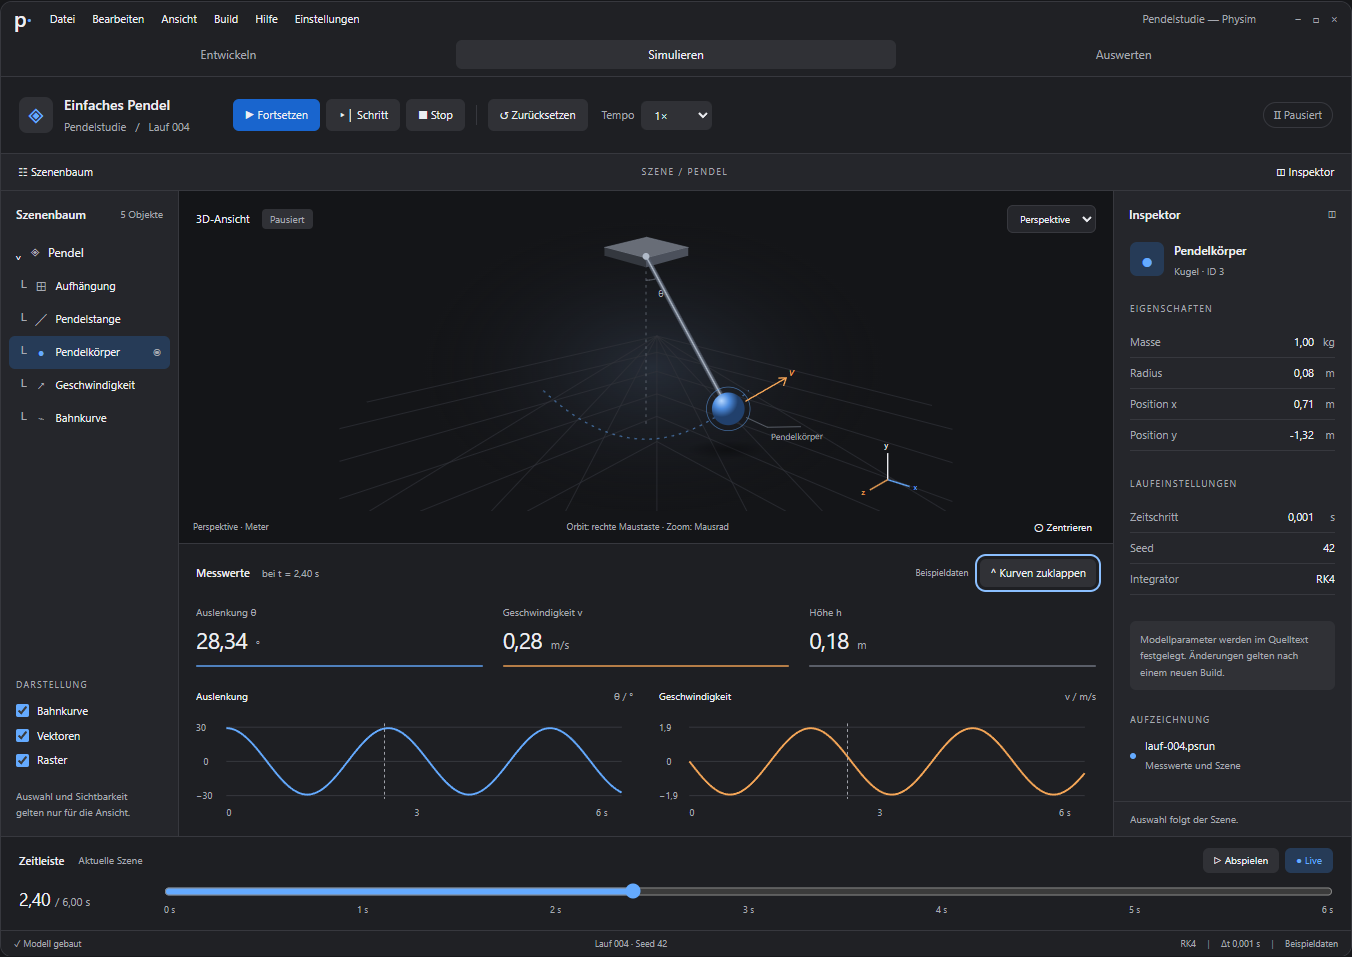
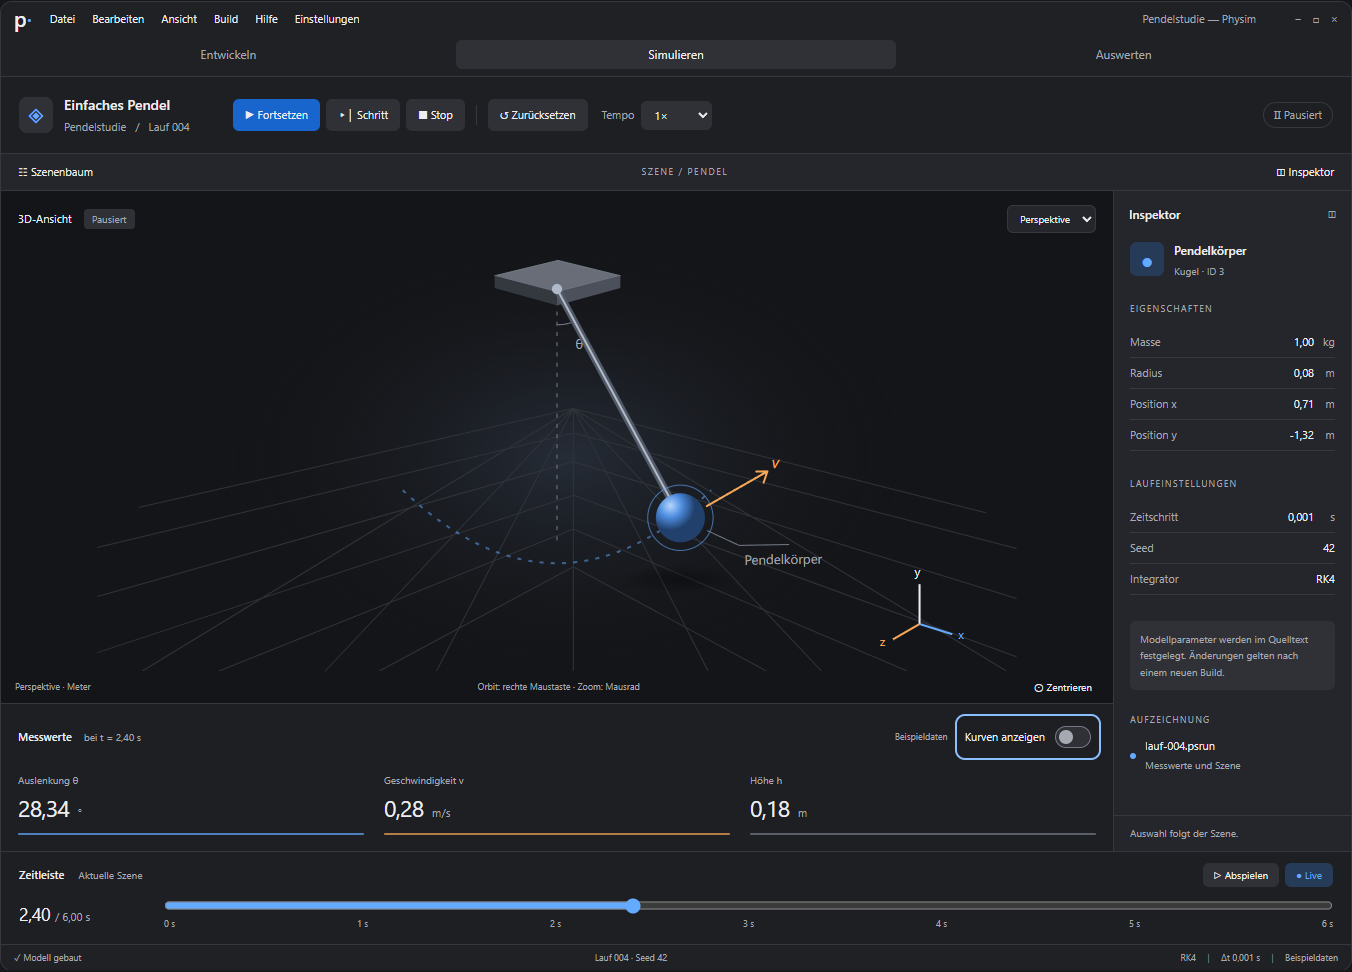
Select Messlabor design with quiet curve switch and initial pane states

diff --git a/docs/visuals/simulation-designs/index.html b/docs/visuals/simulation-designs/index.html
@@ -15,7 +15,7 @@
   </header>
   <nav class="variants" aria-label="Designvariante">
     <button data-design="studio" aria-pressed="true"><span class="variant-number">01</span><span><strong>Studio</strong><small>Szene, Struktur und Eigenschaften im Gleichgewicht</small></span><span class="variant-tag">Ausgewogen</span></button>
-    <button data-design="labor" aria-pressed="false"><span class="variant-number">02</span><span><strong>Messlabor</strong><small>Beobachten und Messwerte direkt vergleichen</small></span><span class="variant-tag">Daten im Blick</span></button>
+    <button data-design="labor" aria-pressed="false"><span class="variant-number">02</span><span><strong>Messlabor</strong><small>Ausgewählt · Szene und optionale Messkurven</small></span><span class="variant-tag">Daten im Blick</span></button>
     <button data-design="focus" aria-pressed="false"><span class="variant-number">03</span><span><strong>Fokus</strong><small>Die Szene als große, ungestörte Arbeitsfläche</small></span><span class="variant-tag">Szene zuerst</span></button>
   </nav>
   <div class="preview-meta"><span><b id="design-caption">01 / Studio</b><span id="design-description">Ein vertrauter Arbeitsraum für Modell und Bewegung.</span></span><label>Zustand <select id="state-select"><option value="paused">Pausiert</option><option value="running">Läuft</option><option value="ready">Bereit</option><option value="empty">Kein Projekt</option><option value="error">Fehler</option></select></label></div>
@@ -43,7 +43,7 @@
           <div class="scene-bottom"><span id="view-label">Perspektive · Meter</span><span class="scene-hint">Orbit: rechte Maustaste · Zoom: Mausrad</span><button id="camera-reset" aria-label="Kamera auf Standardansicht zurücksetzen">⊙ Zentrieren</button></div>
           <div class="state-overlay" id="state-overlay" hidden><span class="empty-symbol">◈</span><h2 id="overlay-title">Dein nächstes Experiment.</h2><p id="overlay-message">Öffne einen Projektordner, um dein Modell zu simulieren.</p><button id="overlay-action" class="primary">Beispiel anzeigen</button></div>
         </div>
-        <div class="measurements" id="measurements"><div class="measure-heading"><strong>Messwerte</strong><span id="measurement-time">bei t = 2,40 s</span><span class="sample-badge">Beispieldaten</span><button id="curves-toggle" type="button" aria-expanded="false" aria-controls="curves">⌄ Kurven aufklappen</button></div><div class="metric-grid"><div><span>Auslenkung θ</span><strong id="angle-value">27,37 <small>°</small></strong><div class="metric-line blue"></div></div><div><span>Geschwindigkeit v</span><strong id="velocity-value">0,00 <small>m/s</small></strong><div class="metric-line amber"></div></div><div><span>Höhe h</span><strong id="height-value">0,17 <small>m</small></strong><div class="metric-line neutral"></div></div></div><div class="charts" id="curves" hidden><div class="chart"><div class="chart-label"><span>Auslenkung</span><span>θ / °</span></div><svg viewBox="0 0 460 114" role="img" aria-label="Beispielverlauf der Auslenkung über 6 Sekunden"><g class="chart-grid"><path d="M32 16H448M32 52H448M32 88H448"/></g><g class="chart-axis"><text x="0" y="20">30</text><text x="8" y="56">0</text><text x="0" y="92">−30</text><text x="32" y="110">0</text><text x="230" y="110">3</text><text x="421" y="110">6 s</text></g><path id="angle-curve" class="curve"/><line class="chart-cursor" x1="198" x2="198" y1="12" y2="91"/></svg></div><div class="chart"><div class="chart-label"><span>Geschwindigkeit</span><span>v / m/s</span></div><svg viewBox="0 0 460 114" role="img" aria-label="Beispielverlauf der Geschwindigkeit über 6 Sekunden"><g class="chart-grid"><path d="M32 16H448M32 52H448M32 88H448"/></g><g class="chart-axis"><text x="0" y="20">1,9</text><text x="8" y="56">0</text><text x="0" y="92">−1,9</text><text x="32" y="110">0</text><text x="230" y="110">3</text><text x="421" y="110">6 s</text></g><path id="velocity-curve" class="curve amber-curve"/><line class="chart-cursor" x1="198" x2="198" y1="12" y2="91"/></svg></div></div></div>
+        <div class="measurements" id="measurements"><div class="measure-heading"><strong>Messwerte</strong><span id="measurement-time">bei t = 2,40 s</span><span class="sample-badge">Beispieldaten</span><button id="curves-toggle" type="button" role="switch" aria-checked="false" aria-expanded="false" aria-controls="curves"><span>Kurven anzeigen</span><span class="switch-track" aria-hidden="true"><span class="switch-thumb"></span></span></button></div><div class="metric-grid"><div><span>Auslenkung θ</span><strong id="angle-value">27,37 <small>°</small></strong><div class="metric-line blue"></div></div><div><span>Geschwindigkeit v</span><strong id="velocity-value">0,00 <small>m/s</small></strong><div class="metric-line amber"></div></div><div><span>Höhe h</span><strong id="height-value">0,17 <small>m</small></strong><div class="metric-line neutral"></div></div></div><div class="charts" id="curves" hidden><div class="chart"><div class="chart-label"><span>Auslenkung</span><span>θ / °</span></div><svg viewBox="0 0 460 114" role="img" aria-label="Beispielverlauf der Auslenkung über 6 Sekunden"><g class="chart-grid"><path d="M32 16H448M32 52H448M32 88H448"/></g><g class="chart-axis"><text x="0" y="20">30</text><text x="8" y="56">0</text><text x="0" y="92">−30</text><text x="32" y="110">0</text><text x="230" y="110">3</text><text x="421" y="110">6 s</text></g><path id="angle-curve" class="curve"/><line class="chart-cursor" x1="198" x2="198" y1="12" y2="91"/></svg></div><div class="chart"><div class="chart-label"><span>Geschwindigkeit</span><span>v / m/s</span></div><svg viewBox="0 0 460 114" role="img" aria-label="Beispielverlauf der Geschwindigkeit über 6 Sekunden"><g class="chart-grid"><path d="M32 16H448M32 52H448M32 88H448"/></g><g class="chart-axis"><text x="0" y="20">1,9</text><text x="8" y="56">0</text><text x="0" y="92">−1,9</text><text x="32" y="110">0</text><text x="230" y="110">3</text><text x="421" y="110">6 s</text></g><path id="velocity-curve" class="curve amber-curve"/><line class="chart-cursor" x1="198" x2="198" y1="12" y2="91"/></svg></div></div></div>
       </div>
       <aside id="inspector" class="inspector"><div class="pane-heading">Inspektor <span>◫</span></div><div class="inspector-body"><div class="object-heading"><div class="object-avatar">●</div><div><strong class="selected-name">Pendelkörper</strong><small id="selected-type">Kugel · ID 3</small></div></div><div class="section-label">EIGENSCHAFTEN</div><dl class="properties" id="object-properties"><div><dt>Masse</dt><dd>1,00 <span>kg</span></dd></div><div><dt>Radius</dt><dd>0,08 <span>m</span></dd></div><div><dt>Position x</dt><dd id="position-value">0,69 <span>m</span></dd></div><div><dt>Position y</dt><dd id="position-y">−1,33 <span>m</span></dd></div></dl><div class="section-label">LAUFEINSTELLUNGEN</div><dl class="properties"><div><dt>Zeitschritt</dt><dd>0,001 <span>s</span></dd></div><div><dt>Seed</dt><dd>42</dd></div><div><dt>Integrator</dt><dd>RK4</dd></div></dl><div class="inspector-notice">Modellparameter werden im Quelltext festgelegt. Änderungen gelten nach einem neuen Build.</div><div class="section-label recording-label">AUFZEICHNUNG</div><div class="recording"><span class="record-dot"></span><div><strong>lauf-004.psrun</strong><small>Messwerte und Szene</small></div></div></div><div class="inspector-footer">Auswahl folgt der Szene.</div></aside>
     </div>

diff --git a/docs/visuals/simulation-designs/simulation.js b/docs/visuals/simulation-designs/simulation.js
@@ -5,12 +5,12 @@
   const app = document.querySelector('.app-window');
   const descriptions = {
     studio: ['01 / Studio','Ein vertrauter Arbeitsraum für Modell und Bewegung.','Alles an seinem Platz.','Links die Szenenstruktur, rechts der ausgewählte Körper. Kurven lassen sich bei Bedarf direkt unter den Messwerten aufklappen; zugeklappt erhält die Szene mehr Platz.'],
-    labor: ['02 / Messlabor','Bewegung und Messwerte in einem gemeinsamen Blick.','Sehen, was die Bewegung bedeutet.','Zwei Signalverläufe verbinden Messwerte und Szene über einen gemeinsamen Zeitzeiger. Die Kurven lassen sich zuklappen, um der Szene mehr Raum zu geben.'],
+    labor: ['02 / Messlabor · Ausgewählt','Dein Arbeitsraum: große Szene, Inspektor und optionale Kurven.','Mehr Szene. Details im Blick.','Der Szenenbaum startet geschlossen, der Inspektor bleibt offen. Mit „Kurven anzeigen“ blendest du die beiden Signalverläufe bei Bedarf ein.'],
     focus: ['03 / Fokus','Mehr Raum für die Szene, Details genau bei Bedarf.','Das Experiment im Mittelpunkt.','Beide Seiten sind zunächst eingeklappt. Auswahl, Messwerte und Zeit bleiben sichtbar; Szenenbaum und Inspektor lassen sich unabhängig wieder einblenden.']
   };
   const objects = {mass:['Pendelkörper','Kugel · ID 3'],support:['Aufhängung','Box · ID 1'],rod:['Pendelstange','Linie · ID 2'],velocity:['Geschwindigkeit','Vektor · ID 4'],trail:['Bahnkurve','Pfad · ID 5']};
   let mode='paused', time=2.4, liveTime=2.4, browsing=false, replay=false, selected='mass', last=0;
-  const curvesByDesign={studio:false,labor:true,focus:false};
+  const curvesByDesign={studio:false,labor:false,focus:false};
   const fmt = (n,d=2) => n.toLocaleString('de-DE',{minimumFractionDigits:d,maximumFractionDigits:d});
   const angle = t => .5*Math.cos(Math.sqrt(9.81/1.5)*t);
   const speed = t => -1.5*.5*Math.sqrt(9.81/1.5)*Math.sin(Math.sqrt(9.81/1.5)*t);
@@ -22,13 +22,13 @@
     $('curves').hidden=!open;
     app.classList.toggle('curves-open',open);
     $('curves-toggle').setAttribute('aria-expanded',String(open));
-    $('curves-toggle').textContent=open?'⌃ Kurven zuklappen':'⌄ Kurven aufklappen';
+    $('curves-toggle').setAttribute('aria-checked',String(open));
   }
   function design(value) {
     app.dataset.design=value;
     curves();
     document.querySelectorAll('.variants [data-design]').forEach(b=>b.setAttribute('aria-pressed',String(b.dataset.design===value)));
-    app.classList.toggle('tree-closed',value==='focus');app.classList.toggle('inspector-closed',value==='focus');panels();
+    app.classList.toggle('tree-closed',value!=='studio');app.classList.toggle('inspector-closed',value==='focus');panels();
     const [caption,description,title,note]=descriptions[value];
     $('design-caption').textContent=caption;$('design-description').textContent=description;$('note-number').textContent=caption.slice(0,2);$('note-title').textContent=title;$('note-text').textContent=note;
   }
@@ -101,5 +101,5 @@
     requestAnimationFrame(tick);
   }
   const params=new URLSearchParams(location.search);if(params.get('theme')==='light')document.querySelector('[data-theme="light"]').click();
-  design(descriptions[params.get('design')]?params.get('design'):'studio');object('mass');status();render();requestAnimationFrame(tick);
+  design(descriptions[params.get('design')]?params.get('design'):'labor');object('mass');status();render();requestAnimationFrame(tick);
 })();

diff --git a/docs/visuals/simulation-designs/simulation.css b/docs/visuals/simulation-designs/simulation.css
@@ -5,6 +5,10 @@
 .tree-row{overflow-wrap:anywhere;white-space:normal}.object-icon{flex-shrink:0}
 .app-window .charts:not([hidden]){display:grid}
 .measure-heading{flex-wrap:wrap}.measure-heading #curves-toggle{font-size:11px;padding:5px 9px;margin-left:auto;white-space:normal}.measure-heading .sample-badge{margin-left:auto}.measure-heading .sample-badge + #curves-toggle{margin-left:0}
+.measure-heading #curves-toggle{display:inline-flex;align-items:center;gap:10px;background:transparent;padding:6px 4px;border-radius:5px;text-align:left;min-height:32px}.measure-heading #curves-toggle:hover{background:var(--surface)}
+.switch-track{display:block;flex:0 0 36px;width:36px;height:22px;border-radius:12px;background:var(--surface);border:1px solid var(--axis);padding:3px}.switch-thumb{display:block;width:14px;height:14px;border-radius:50%;background:var(--muted)}
+#curves-toggle[aria-checked=true] .switch-track{background:var(--primary);border-color:var(--primary)}#curves-toggle[aria-checked=true] .switch-thumb{transform:translateX(14px);background:var(--on-primary)}
+@media(forced-colors:active){.switch-track{border-color:ButtonText}#curves-toggle[aria-checked=true] .switch-track{background:Highlight;border-color:Highlight}.switch-thumb,#curves-toggle[aria-checked=true] .switch-thumb{background:ButtonText}}
 .app-window[data-design=studio].curves-open .scene{min-height:270px}.app-window[data-design=studio].curves-open .physics-scene{min-height:250px;max-height:320px}
 .app-window[data-design=labor]:not(.curves-open) .scene{min-height:365px}.app-window[data-design=labor]:not(.curves-open) .physics-scene{min-height:320px;max-height:480px}
 @media(min-width:651px){.app-window[data-design=studio] .scene-column,.app-window[data-design=labor] .scene-column{min-height:634px}}

diff --git a/docs/visuals/simulation-designs/DESIGN.md b/docs/visuals/simulation-designs/DESIGN.md
@@ -1,7 +1,9 @@
 # Entwürfe für den Arbeitsbereich Simulieren
 
-Stand 19. Oktober 2026; erste Entwürfe vom 16. Oktober. Vorschläge zur Auswahl, keine neue verbindliche
-Produktentscheidung. Verantwortlich für diesen Entwurf: UI/UX-Design.
+Stand 19. Oktober 2026; erste Entwürfe vom 16. Oktober. **Messlabor ist ausgewählt**,
+mit geschlossenem Szenenbaum, offenem Inspektor und zunächst zugeklappten Kurven.
+Siehe [Produktentscheidung ADR 008](../../decisions/008-simulation-messlabor.md).
+Studio und Fokus bleiben Vergleichsentwürfe. Verantwortlich: UI/UX-Design.
 
 ## Gemeinsamer Rahmen
 
@@ -32,7 +34,7 @@ bei den tatsächlich gewählten Schriftgrößen.
 | Variante | Aufbau bei 1440 px Browserbreite | Zweck und Abwägung |
 | --- | --- | --- |
 | 01 Studio | Szenenbaum 204 px, flexible Szene, Inspektor 238 px; drei Messwerte und Zeitleiste unten; Kurven zunächst zugeklappt | Allgemeiner Arbeitsraum. Die beiden Signalverläufe können direkt unter den Messwerten aufgeklappt werden. |
-| 02 Messlabor | Baum 178 px, kompaktere Szene, Inspektor 238 px; Messwerte und zunächst aufgeklappte Signalverläufe unter der Szene | Zusammenhänge von Bewegung und Signalen beobachten. Kurven zuklappen vergrößert die Szene. |
+| 02 Messlabor (ausgewählt) | Szenenbaum zunächst geschlossen (geöffnet 178 px), flexible Szene, Inspektor 238 px offen; Messwerte sichtbar, Kurven zunächst zugeklappt | Große Szene mit Objektdetails; bei Bedarf zwei Signalverläufe einblenden. |
 | 03 Fokus | Beide Seiten zunächst geschlossen; große Szene, Auswahlkontext oben links; kompakte Messwerte unten | Bewegung und räumliche Orientierung priorisieren. Struktur und Details benötigen bei Bedarf einen Klick. |
 
 Alle Varianten zeigen dasselbe Beispiel und dieselbe Zeitbasis. Die separaten
@@ -51,10 +53,11 @@ ihre native gemeinsame Darstellung ist hier nicht implementiert.
 
 ## Interaktions- und Zustandsvertrag
 
-Ergänzung vom 19. Oktober auf Nutzerwunsch: In der Messwertleiste sitzt dauerhaft
-eine beschriftete Schaltfläche **Kurven aufklappen / Kurven zuklappen** mit
-Richtungspfeil. Sie steuert beide Diagramme gemeinsam, ist per Enter/Leertaste
-bedienbar und meldet ihren Zustand über `aria-expanded` und `aria-controls`.
+Aktualisierung vom 19. Oktober nach Auswahl: In der Messwertleiste sitzt dauerhaft
+ein beschrifteter Schalter **Kurven anzeigen**, ohne Richtungspfeil. Er steuert
+beide Diagramme gemeinsam und ist per Enter/Leertaste bedienbar. `role=switch`
+und `aria-checked` melden Ein/Aus; `aria-expanded` und `aria-controls` den
+zugehörigen Diagrammbereich. Die Beschriftung bleibt in beiden Zuständen gleich.
 Messwerte und Zeitleiste bleiben sichtbar. Beim Zuklappen erhält die Szene in
 Studio und Messlabor mehr Höhe. Die Auswahl pro Variante bleibt während dieser
 Vorschau beim Varianten- und Themewechsel erhalten; eine Speicherung über einen
@@ -83,6 +86,13 @@ Galerie bildet nur ihren Ort ab. Auch F5/F7 und vorhandene Shortcuts werden
 hier nicht neu definiert. Keine globalen Browser-Tastenkürzel abfangen.
 
 ## Prüfung und Grenzen
+
+Nach der Auswahl von Messlabor am 19. Oktober wurde derselbe Prüfer erneut mit
+Exitcode 0 ausgeführt (Edge 155.0.4283.62): 24 Layoutfälle, 16 Kurvenfälle und
+sechs Interaktionsdurchläufe bestanden. Zusätzlich sind Messlabor als Standard,
+die anfänglichen Seitenzustände, `role=switch`, der konsistente Ein-/Auszustand
+und die unveränderte Beschriftung des Kurvenschalters geprüft. Aktuelle
+Messlabor-Bilder mit ein- und ausgeblendeten Kurven in Hell/Dunkel visuell geprüft.
 
 Ergänzungsprüfung am 19. Oktober 2026 mit Edge 155.0.4283.62:
 `node tools/check_simulation_designs.cjs --export`, Exitcode 0. Die bisherigen
@@ -119,7 +129,7 @@ der Vorschau. Es gibt keine dekorative Daueranimation oder Übergangssperre.
 
 ## Übergabe nach Auswahl
 
-Die gewählte Variante zuerst als Produktentscheidung festhalten. Anschließend
+Die gewählte Variante ist in ADR 008 festgehalten. Anschließend
 UI-Umsetzung und Designsystem mit Accessibility- und Plattformprüfung verbinden:
 vorhandene Layout-/Toolbar-/Szenenbaum-/Zeitleistenfunktionen in `app/` verwenden,
 keine Browserdemo als Runner übernehmen. Fenster, Plattformmenüs, native

diff --git a/docs/visuals/simulation-designs/README.md b/docs/visuals/simulation-designs/README.md
@@ -1,12 +1,12 @@
 # Simulationsbereich: drei Designstudien
 
 Erstellt am 16. Oktober 2026 auf Grundlage des lokalen Physim-Stands und der
-[bestehenden Designrichtung](../../design-direction.md). Alle drei Varianten
-sind Vorschläge; eine Auswahl durch den Nutzer steht aus. Die native Anwendung
+[bestehenden Designrichtung](../../design-direction.md). Am 19. Oktober wurde
+**Messlabor** ausgewählt: Szenenbaum zu, Inspektor offen, Kurven zu. Die native Anwendung
 wurde durch diese Studien nicht verändert.
 
 - [Interaktive Vorschau](index.html) lokal im Browser öffnen, ohne Installation,
-  Server oder externe Ressourcen. Start: Studio, dunkel, pausiert.
+  Server oder externe Ressourcen. Start: Messlabor, dunkel, pausiert.
 - [Vergleich: Dunkel links, Hell rechts; Studio / Messlabor / Fokus von oben nach unten](overview.png).
 - Studio: [Dunkel](studio-dark.png), [Hell](studio-light.png).
 - Messlabor: [Dunkel](labor-dark.png), [Hell](labor-light.png).
@@ -18,14 +18,15 @@ Die Auswahl oben schaltet das Layout, daneben lassen sich Theme und Laufzustand
 wechseln. Innerhalb der Vorschau sind Seitenbereiche, Objektauswahl, Sichtbarkeit,
 Laufsteuerung, Tempo, Kameraansichten und Zeitleiste bedienbar.
 
-**Ergänzt am 19. Oktober:** Über **Kurven aufklappen / Kurven zuklappen** in der
-Messwertleiste sind die beiden Signalverläufe ein- und ausblendbar. Studio startet
-zugeklappt, Messlabor aufgeklappt. Beim Zuklappen wächst die Szene; die Messwerte
+**Aktualisiert am 19. Oktober:** Über den Schalter **Kurven anzeigen** in der
+Messwertleiste sind die beiden Signalverläufe ein- und ausblendbar. Studio und
+Messlabor starten mit zugeklappten Kurven. Beim Zuklappen wächst die Szene; die Messwerte
 und Zeitleiste bleiben sichtbar. Der Zustand wird pro Variante für diese Sitzung
 behalten. Vergleichszustände: Studio aufgeklappt
 ([Dunkel](studio-dark-curves-open.png), [Hell](studio-light-curves-open.png)) und
-Messlabor zugeklappt ([Dunkel](labor-dark-curves-closed.png),
-[Hell](labor-light-curves-closed.png)).
+Messlabor aufgeklappt ([Dunkel](labor-dark-curves-open.png),
+[Hell](labor-light-curves-open.png)). Die bisherigen Dateinamen
+`labor-*-curves-closed.png` zeigen ebenfalls den aktuellen Startzustand.
 
 Die Pendelbewegung und Kurven sind illustrative Beispieldaten aus einer
 Kleinwinkelnäherung mit l = 1,50 m, m = 1,00 kg und θ₀ = 0,50 rad. Die Zeit läuft
@@ -51,6 +52,6 @@ erneuert. Unter Windows verwendet der Prüfer Edge; `PHYSIM_BROWSER` kann einen
 anderen Browserpfad angeben. Andere Systeme benötigen ein verfügbares Chromium.
 Das ist keine Aussage über bereits ausgeführte Linux-/macOS-Prüfungen.
 
-Die zehn gelieferten Screenshots und die Übersicht bleiben als Designreferenzen
+Die gelieferten Screenshots und die Übersicht bleiben als Designreferenzen
 versioniert. Temporäre erfolgreiche Browserbilder unter `build/` werden nach
 visueller Abnahme entfernt; offene Fehlerbelege würden erhalten bleiben.

diff --git a/docs/decisions/008-simulation-messlabor.md b/docs/decisions/008-simulation-messlabor.md
@@ -1,0 +1,27 @@
+# Simulationsbereich: Messlabor als ausgewähltes Zielbild
+
+Nutzerentscheidung vom 19. Oktober 2026: **Messlabor (Variante 02)** bildet die
+Grundlage für den Simulationsbereich, mit folgenden anfänglichen Zuständen:
+
+- Szenenbaum geschlossen, separat wieder erreichbar.
+- Inspektor offen.
+- Beide Messkurven zugeklappt; Messwerte und Zeitleiste sichtbar.
+- Kurven über einen beschrifteten Schalter **Kurven anzeigen** ein-/ausblenden.
+  Der bisherige kleine Richtungspfeil entfällt. Der Schalter zeigt Ein/Aus
+  durch die Position seines runden Griffs, ergänzend durch den visuellen Zustand.
+
+Die [interaktive Vorlage](../visuals/simulation-designs/index.html) startet mit
+dieser Variante. Studio und Fokus bleiben Vergleichsentwürfe. Das Einblenden
+der Kurven verändert weder Seitenzustände, Auswahl noch Simulationszeit; beim
+Ausblenden erhält die Szene wieder die frei gewordene Höhe.
+
+Die [Designspezifikation](../visuals/simulation-designs/DESIGN.md) und die Bilder
+[Dunkel](../visuals/simulation-designs/labor-dark.png),
+[Hell](../visuals/simulation-designs/labor-light.png) sowie
+[Kurven eingeblendet](../visuals/simulation-designs/labor-dark-curves-open.png)
+beschreiben das Zielbild. Die Schaltergestaltung ist der aktuelle Vorschlag für
+den gewünschten Ersatz des Pfeils und kann weiter verfeinert werden.
+
+Diese Entscheidung betrifft den Entwurf. Die native C-/SDL-/Nuklear-Anwendung
+ist noch nicht umgestellt; die Vorlage ist kein Nachweis einer nativen
+Windows-, Linux- oder macOS-Abnahme.
